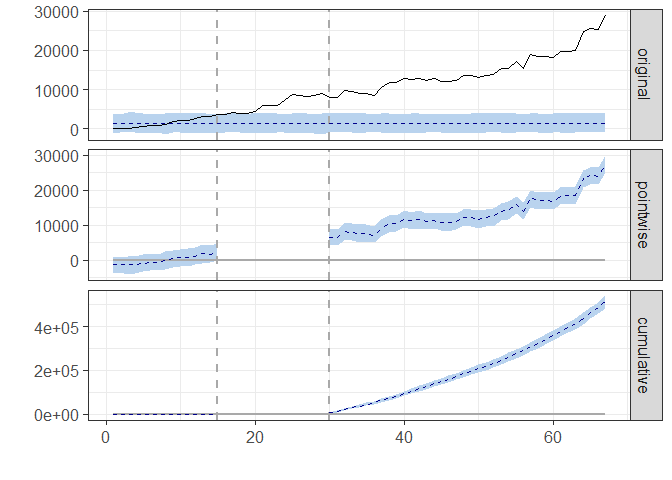
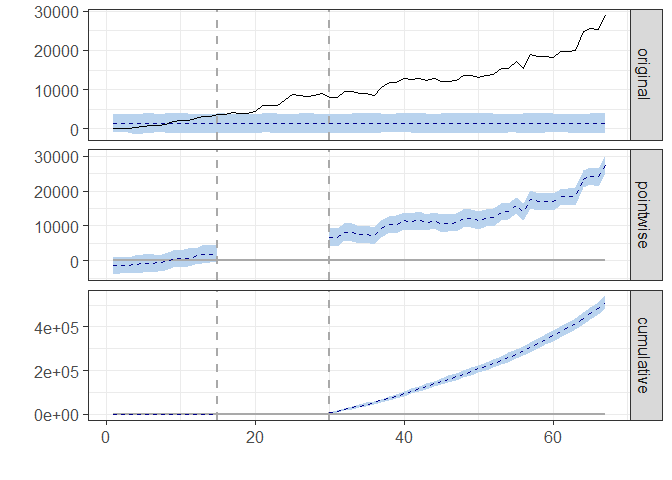
quick update

diff --git a/Assignments/Assignment 4/Assignment--4.md b/Assignments/Assignment 4/Assignment--4.md
@@ -312,7 +312,9 @@ ggplot(data=Q_data_plot2, aes(x=as_factor(Quarter_Year), y=leaving, shape=gender
 
 #### Decide on two tech centers
 
-Comparing two tech centers based on the number of examiners
+Comparing two tech centers based on the number of examiners. We have
+chosen to examain 1600 and 2100 as these two centers demonstrate pthe
+closes paralell trends.
 
 ``` r
 tc_in=c(1600,2100)
@@ -538,14 +540,14 @@ summary(impact)
     ## 
     ##                          Average          Cumulative      
     ## Actual                   14880            565451          
-    ## Prediction (s.d.)        1374 (379)       52223 (14396)   
-    ## 95% CI                   [680, 2158]      [25848, 81997]  
+    ## Prediction (s.d.)        1374 (381)       52223 (14487)   
+    ## 95% CI                   [604, 2119]      [22965, 80527]  
     ##                                                           
-    ## Absolute effect (s.d.)   13506 (379)      513228 (14396)  
-    ## 95% CI                   [12722, 14200]   [483454, 539603]
+    ## Absolute effect (s.d.)   13506 (381)      513228 (14487)  
+    ## 95% CI                   [12761, 14276]   [484924, 542486]
     ##                                                           
-    ## Relative effect (s.d.)   1110% (845%)     1110% (845%)    
-    ## 95% CI                   [590%, 2088%]    [590%, 2088%]   
+    ## Relative effect (s.d.)   1096% (493%)     1096% (493%)    
+    ## 95% CI                   [602%, 2362%]    [602%, 2362%]   
     ## 
     ## Posterior tail-area probability p:   0.00102
     ## Posterior prob. of a causal effect:  99.89837%
@@ -603,13 +605,13 @@ summary(impact)
     ##                          Average         Cumulative   
     ## Actual                   84              418          
     ## Prediction (s.d.)        7.3 (2.3)       36.7 (11.3)  
-    ## 95% CI                   [3, 12]         [15, 58]     
+    ## 95% CI                   [3, 12]         [15, 59]     
     ##                                                       
     ## Absolute effect (s.d.)   76 (2.3)        381 (11.3)   
-    ## 95% CI                   [72, 81]        [360, 403]   
+    ## 95% CI                   [72, 81]        [359, 403]   
     ##                                                       
-    ## Relative effect (s.d.)   1307% (4230%)   1307% (4230%)
-    ## 95% CI                   [618%, 2535%]   [618%, 2535%]
+    ## Relative effect (s.d.)   1208% (784%)    1208% (784%) 
+    ## 95% CI                   [610%, 2709%]   [610%, 2709%]
     ## 
     ## Posterior tail-area probability p:   0.001
     ## Posterior prob. of a causal effect:  99.8996%
